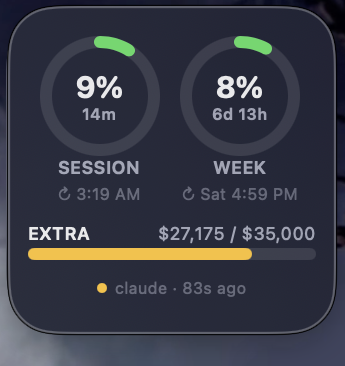
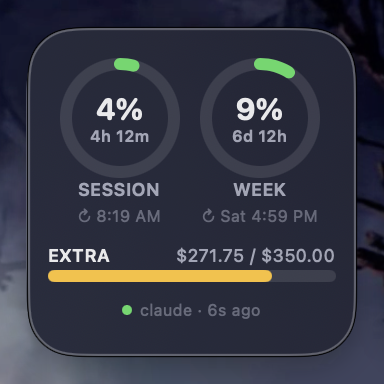
Fix extra-usage units: API returns cents, not dollars
The /oauth/usage extra_usage amounts are in cents, so $271.75 was
rendering as $27,175. Divide by 100 at ingest and always format USD
with 2 decimals. Refresh the README screenshot with the corrected value.

Changed region(s): [[0.0, 0.0, 1.0, 0.9317], [0.058, 0.9617, 0.1449, 1.0], [0.087, 0.0902, 0.1449, 0.1503]]

diff --git a/Sources/ClaudeUsage.swift b/Sources/ClaudeUsage.swift
@@ -139,8 +139,9 @@ final class Usage: ObservableObject {
             opusFrac      = frac(r.seven_day_opus)
             sonnetFrac    = frac(r.seven_day_sonnet)
             extraEnabled  = r.extra_usage?.is_enabled ?? false
-            extraUsed     = r.extra_usage?.used_credits ?? 0
-            extraLimit    = r.extra_usage?.monthly_limit ?? 0
+            // The usage API returns extra-usage amounts in CENTS — convert to dollars.
+            extraUsed     = (r.extra_usage?.used_credits ?? 0) / 100
+            extraLimit    = (r.extra_usage?.monthly_limit ?? 0) / 100
             if let s = sessionFrac {
                 sessionHist.append(s)
                 if sessionHist.count > histLen { sessionHist.removeFirst(sessionHist.count - histLen) }
@@ -233,8 +234,9 @@ func fmtResetTime(_ date: Date?) -> String {
 func fmtUSD(_ v: Double) -> String {
     let f = NumberFormatter()
     f.numberStyle = .decimal
-    f.maximumFractionDigits = v < 100 ? 2 : 0
-    return "$" + (f.string(from: NSNumber(value: v)) ?? "0")
+    f.minimumFractionDigits = 2      // always show cents, e.g. $271.75 / $350.00
+    f.maximumFractionDigits = 2
+    return "$" + (f.string(from: NSNumber(value: v)) ?? "0.00")
 }
 
 func fmtAgo(_ date: Date?, now: Date) -> String {